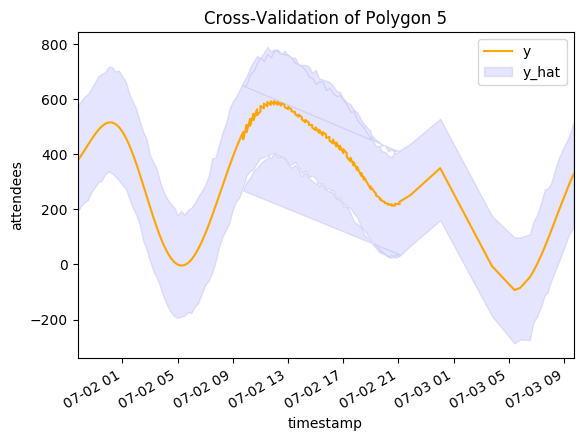
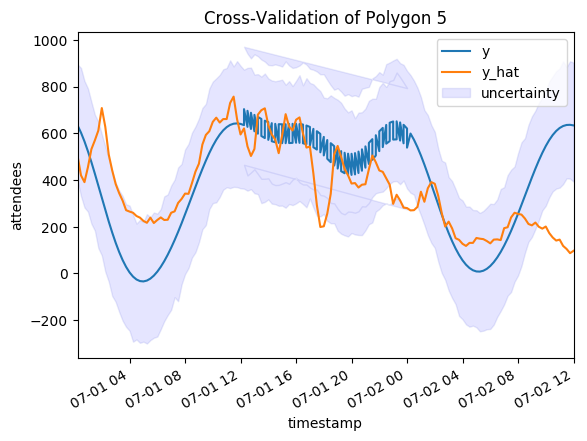
fix multi-processing

diff --git a/ts-fbprophet.py b/ts-fbprophet.py
@@ -9,7 +9,6 @@ import matplotlib.pyplot as plt
 from multiprocessing import Manager
 from sklearn.metrics import mean_squared_error, r2_score
 import numpy as np
-plt.rcParams['axes.color_cycle'] = ['orange', 'lightblue', 'grey']
 
 # setup forecast
 fc_hours_to_predict = 4 # how far forecast looks into future
@@ -20,10 +19,10 @@ cv_horizon_unit = 'hour'    # units: sec, minute, hour, day, week, month
 hr_range_arr = [24, 12, 8, 4, 2, 1] # state model accuracy for these hours for RMSE, R^2, MAPE
 
 # setup data
-plotforecasts, plotcrossvals, plotcvuncertainty = False, False, False
+plotforecasts, plotcrossvals, plotcvuncertainty = True, True, True
 slices_per_hour = 4                                         # 15m = 4, 30m = 2, 60m = 1
-startdate = dateutil.parser.parse('2017-06-25 12:00:00')    # goes from 26-06 to 05-07
-enddate =   dateutil.parser.parse('2017-06-30 12:00:00')
+startdate = dateutil.parser.parse('2017-06-27 12:00:00')    # goes from 26-06 to 05-07
+enddate =   dateutil.parser.parse('2017-07-02 12:00:00')
 filename_data = '2017_devicecount15m.csv'
 filename_pols = '2017_devicecount15m-polygons.csv'
 basepath = 'data/'
@@ -84,14 +83,13 @@ def evaluate_cv_per_hour(df_cv, polygon):
         plt.ylabel('attendees')
         plt.title('Cross-Validation of Polygon ' + str(polygon))
         plt.savefig('img/' + 'cv_' + filename_data + '_pol' + str(polygon) + '.png', bbox_inches='tight')
-        plt.show()
         plt.close()
         plt.clf()
     if plotcvuncertainty:
         fig = plt.figure(0)
         df_plot.yhat.plot()
         plt.fill_between(df_plot.index, df_plot.yhat_lower, df_plot.yhat_upper, interpolate=False, facecolor='b', edgecolor='#1B2ACC', antialiased=True, alpha=.1)
-        #df_plot.y.plot()
+        df_plot.y.plot()
         #plt.plot(df_plot.index, df_plot.y)
         #plt.plot(df_plot.index, df_plot.yhat)
         #plt.errorbar(df_plot.index, df_plot.yhat, yerr=[y-df_plot.yhat_upper, y-df_plot.yhat_lower], uplims=True, lolims=True)
@@ -100,7 +98,6 @@ def evaluate_cv_per_hour(df_cv, polygon):
         plt.ylabel('attendees')
         plt.title('Cross-Validation of Polygon ' + str(polygon))
         plt.savefig('img/' + 'cv_uc_' + filename_data + '_pol' + str(polygon) + '.png', bbox_inches='tight')
-        plt.show()
         plt.close()
         plt.clf()
 
@@ -148,4 +145,3 @@ if __name__ == "__main__":
     df_endresult = df_endresult.set_index('POLYGON')
     df_endresult.to_csv('results.csv')
     print(df_endresult.tail(n=10))
-    print(len(df_endresult))
